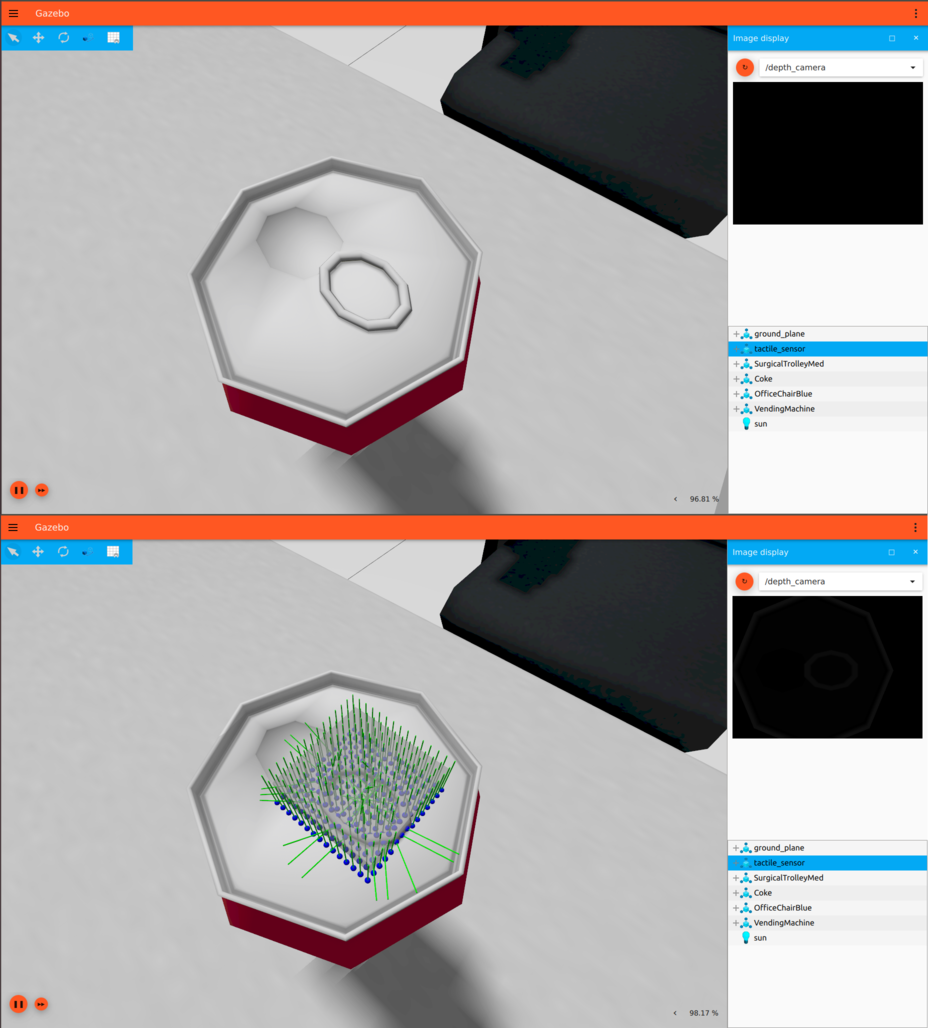
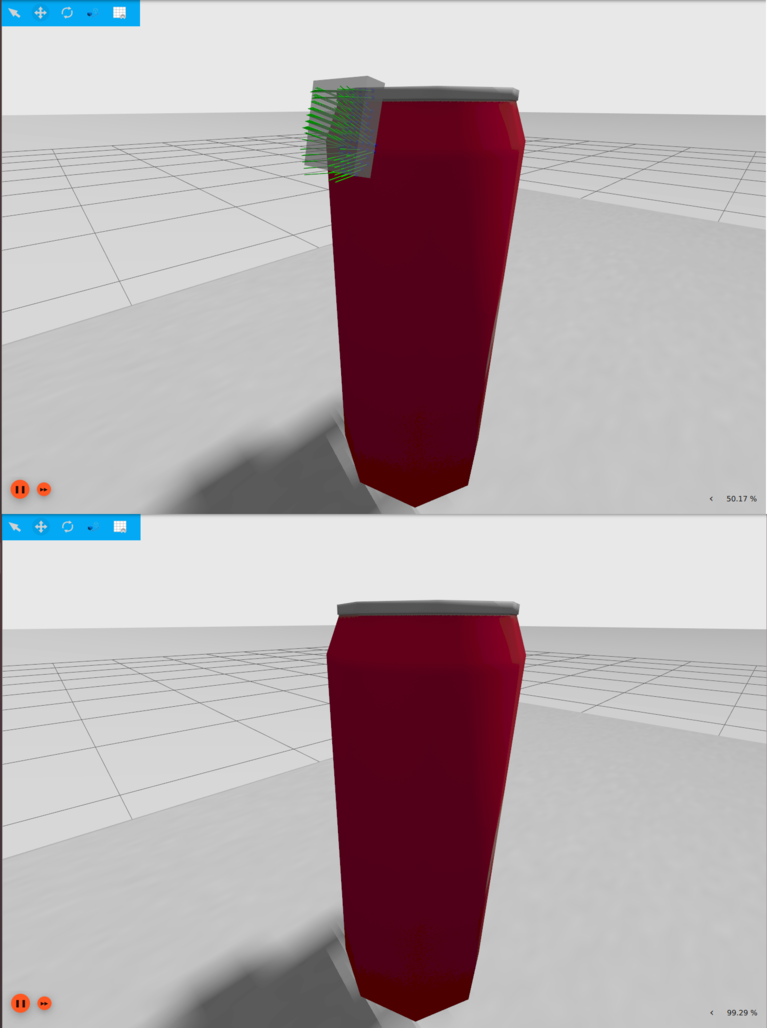
PR Feedback 2

diff --git a/tutorials/optical_tactile_plugin.md b/tutorials/optical_tactile_plugin.md
@@ -9,12 +9,12 @@ Currently, the plugin is required to work within models that have one link, one
 contact sensor and one depth camera. In order to simulate the behaviour of the
 contact surface, which returns the contact forces of the object being touched,
 we merge the information coming from these two different sensors. Contact normals to 
-the surfaces being touched are computed from the depth image. (TODO) Next, these
+the surfaces being touched are computed from the depth image. (TODO pending ExtraContactData fields from https://github.com/ignitionrobotics/ign-physics/pull/40 are exposed in ign-gazebo) Next, these
 values are merged with the information returned by the contact sensor, i.e. force 
 magnitudes, penetration and depth.
 
 The plugin allows the user to visualize the contact normals of the objects in 
-the proximity of being touched. In the next image, we can see these normals 
+the proximity of contact. In the next image, we can see these normals 
 when we touch the ring and the top surface of a can of coke:
 
 <img src="https://raw.githubusercontent.com/ignitionrobotics/ign-gazebo/master/tutorials/files/optical_tactile_plugin/coke_can.png"/>
@@ -51,14 +51,14 @@ sensor and one depth camera.
 - The geometry of the sensor must be a box, because the interpolation of the 
 contacts returned assumes 4 points of input. The visualization of contacts 
 and the `<extended_sensing>` parameter currently make this assumption as well.
-Ideally, the size should be around 20x20x5 mm, but this can be changed. That is
-the approximate size of a real tactile sensor. A bigger one will also work,
-as long as the contact surface fits inside the camera's FOV.
-- The depth camera should be displaced from the model's origin in the negative
-direction of the X axis, so it's not placed inside the contact surface. This can
+Ideally, the size should be around 20x20x5 mm, but this can be changed. A bigger
+one will also work, as long as the contact surface fits inside the camera's FOV.
+- The depth camera should be displaced from the contact surface as in the 
+previous sketch, so it's not placed inside the contact surface. This can
 be done by setting the depth camera's `<pose>` accordingly. Check out the [example below](#try-it-out).
-If the camera was placed in the middle of the contact surface, objects could go
-past the camera and information would be missing. 
+If the camera was placed inside the contact surface, objects could pass through
+the camera from in front of the camera to behind it when the sensor approaches them.
+Thus, information would be missing.
 - There should not be a `<visual>` element inside the link, so that the link of 
 the sensor does not block the depth camera's view. The contact surface can still
 be visualized by setting the `<visualize_sensor>` parameter to true. For more 
